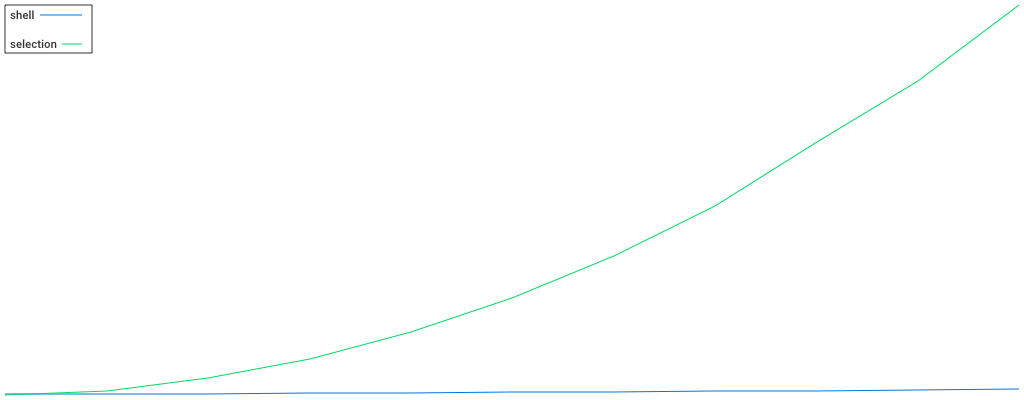
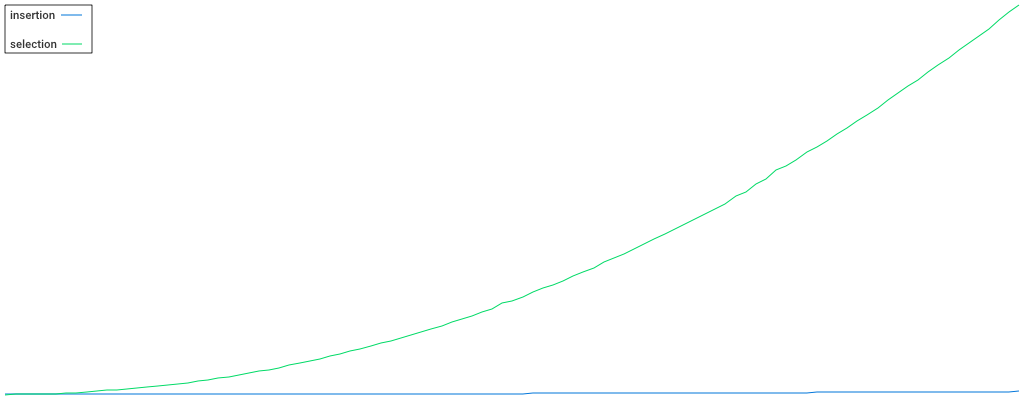
updates

diff --git a/sorts/compare.go b/sorts/compare.go
@@ -15,6 +15,10 @@ import (
 	"github.com/ntkjer/sedgewick/utils/stopwatch"
 )
 
+const (
+	steps = 100
+)
+
 func timeTrial(algo string, input []interface{}) float64 {
 	var watch *stopwatch.Stopwatch = new(stopwatch.Stopwatch)
 	watch.Start()
@@ -46,7 +50,7 @@ func randomFloats(min, max float64, n int) []interface{} {
 func timedRandomInput(algo string, n, trials int) float64 {
 	total := 0.0
 	rand.Seed(time.Now().UnixNano())
-	input := randomFloats(0.0, 100.01, n)
+	input := randomFloats(0.0, 100.0, n)
 	for t := 0; t < trials; t++ {
 		total += timeTrial(algo, input)
 	}
@@ -54,13 +58,11 @@ func timedRandomInput(algo string, n, trials int) float64 {
 }
 
 func step(n int) []float64 {
-	steps := 10.0
 	res := make([]float64, int(steps)+1)
 	total := 0.0
 	for i := 0; i < len(res); i++ {
 		res[i] = total
 		total += float64(n) / steps
-		fmt.Println(total)
 	}
 	return res
 }
@@ -68,9 +70,7 @@ func step(n int) []float64 {
 func generatePlotPoints(algoA, algoB string, n, trials int) ([]float64, []float64, []float64) {
 	//for a large n, lets step the number into a slice of floats as our x axis
 	xaxis := step(n)
-	fmt.Println(xaxis)
-
-	aTimes, bTimes := make([]float64, n), make([]float64, n)
+	aTimes, bTimes := make([]float64, len(xaxis)), make([]float64, len(xaxis))
 
 	for i, num := range xaxis {
 		time1 := timedRandomInput(algoA, int(num), trials)
